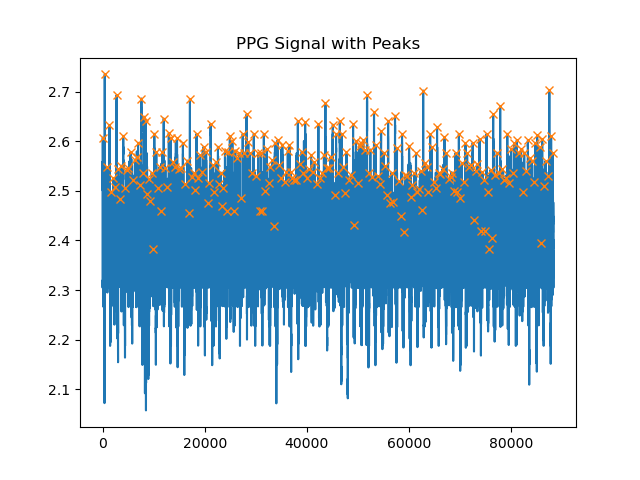
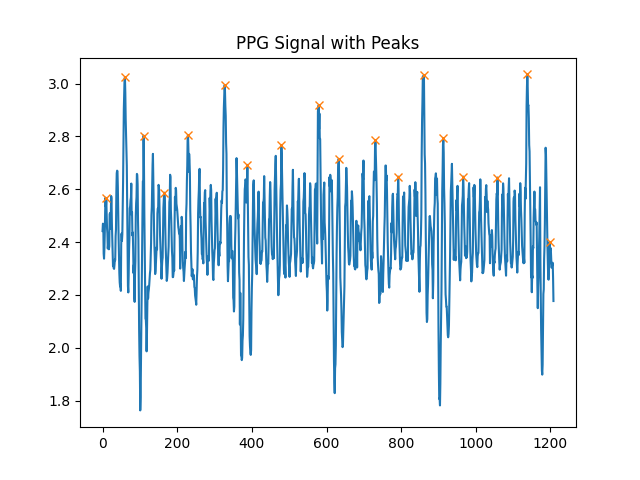
a

diff --git a/proj3/ppg_part2.py b/proj3/ppg_part2.py
@@ -4,10 +4,10 @@ from scipy.signal import find_peaks
 from numpy import blackman
 from scipy.signal import butter, filtfilt
 
-data = np.load('ppg_2.npz', allow_pickle=True)['arr_0'].item()["adc"] # maybe we need to change this
+data = np.load('ppg.npz', allow_pickle=True)['arr_0'].item()['adc'][100:]
 
-fs = 500 # maybe we need to change this
-peaks, _ = find_peaks(data, height=0.1, distance=fs / 2)  
+fs = 100 # maybe we need to change this
+peaks, _ = find_peaks(data, height=0.0, distance=fs / 2)  
 time_diff = np.diff(peaks) / fs
 T = np.mean(time_diff)
 bpm = 60 / T
